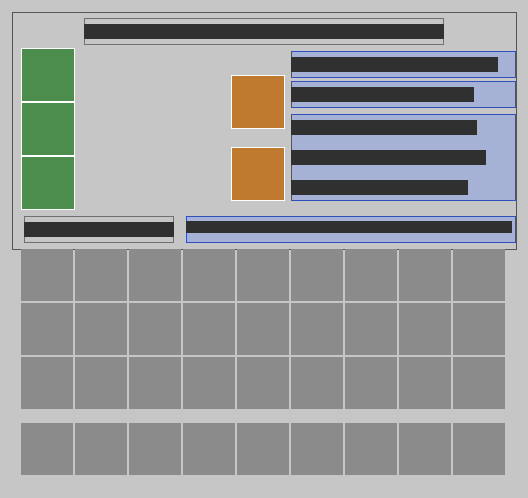
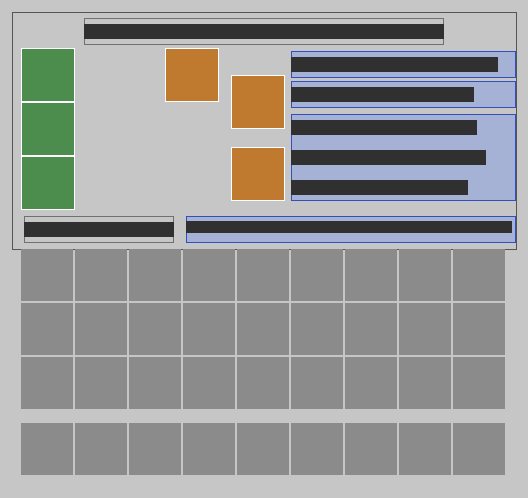
IMP4-01 [1-20]: placer platinum (O-004 prerequisite of [2-19]) - iron sand dug without silk touch drops a platinum grain about 3% of the time; block_drops test allows it; GameTest placer_platinum, CHEMISTRY F24, REFERENCES F12, TEST_QUEUE, tab order, IMPL4_LOG (147/147)

Changed region(s): [[0.303, 0.0904, 0.4242, 0.2108]]

diff --git a/src/gametest/java/com/taku3/semiconductorlab/gametest/MetallurgyTests.java b/src/gametest/java/com/taku3/semiconductorlab/gametest/MetallurgyTests.java
@@ -90,6 +90,25 @@ public class MetallurgyTests extends LabTestBase {
     @GameTest public void oreFluorite(GameTestHelper h)   { oreFeature(h, "fluorite_ore", Blocks.DEEPSLATE, Blocks.COBBLESTONE, Metallurgy.FLUORITE_ORE, LabTestBase::stoneOrDeepslate); }   // [1-21] IMP4-01
     @GameTest public void oreBauxite(GameTestHelper h)    { oreFeature(h, "bauxite_ore", Blocks.DIRT, Blocks.COBBLESTONE, Metallurgy.BAUXITE_ORE, st -> st.is(Blocks.DIRT) || st.is(Blocks.COARSE_DIRT) || st.is(Blocks.STONE)); }   // [1-24] IMP4-01
 
+    /** [1-20] 砂白金（IMP4-01）：砂鉄を掘るとまれに（約3%）白金の粒。シルクタッチでは出ない */
+    @GameTest
+    public void placerPlatinum(GameTestHelper h) {
+        ServerLevel lv = h.getLevel();
+        BlockPos at = h.absolutePos(p(1, 1, 1));
+        ItemStack shovel = new ItemStack(Items.IRON_SHOVEL);
+        ItemStack silk = new ItemStack(Items.IRON_SHOVEL);
+        silk.enchant(lv.registryAccess().lookupOrThrow(Registries.ENCHANTMENT).getOrThrow(net.minecraft.world.item.enchantment.Enchantments.SILK_TOUCH), 1);
+        int pt = 0, ptSilk = 0, n = 2000;
+        for (int i = 0; i < n; i++) {
+            pt += Block.getDrops(Metallurgy.IRON_SAND.defaultBlockState(), lv, at, null, null, shovel).stream().filter(st -> st.is(Metallurgy.PLATINUM_GRAIN)).mapToInt(ItemStack::getCount).sum();
+            ptSilk += Block.getDrops(Metallurgy.IRON_SAND.defaultBlockState(), lv, at, null, null, silk).stream().filter(st -> st.is(Metallurgy.PLATINUM_GRAIN)).mapToInt(ItemStack::getCount).sum();
+        }
+        h.assertTrue(pt > n * 0.01 && pt < n * 0.06, "about 3% platinum grains from iron sand, got " + pt + "/" + n);
+        h.assertValueEqual(ptSilk, 0, "silk touch keeps the sand block (no grain)");
+        LOG.info("[LAB] placer platinum [1-20]: {} grains in {} iron sand blocks (3%), none with silk touch", pt, n);
+        h.succeed();
+    }
+
     /** [1-29] ホール・エルー法（IMP4-01）：アルミナ2 → Al 1（15kWh）。浴（氷晶石）・陽極（黒鉛棒）・電気がないと止まる。陽極は2回、浴は16回 */
     @GameTest
     public void hallHeroult(GameTestHelper h) {
@@ -245,7 +264,7 @@ public class MetallurgyTests extends LabTestBase {
             net.minecraft.world.item.Item raw = (net.minecraft.world.item.Item) o[1];
             List<ItemStack> normal = Block.getDrops(b.defaultBlockState(), lv, at, null, null, pick);
             List<ItemStack> silky = Block.getDrops(b.defaultBlockState(), lv, at, null, null, silk);
-            h.assertTrue(!normal.isEmpty() && normal.stream().allMatch(s -> s.is(raw)), b + " with a pickaxe should drop " + raw + ", got " + normal);
+            h.assertTrue(!normal.isEmpty() && normal.stream().allMatch(s -> s.is(raw) || (b == Metallurgy.IRON_SAND && s.is(Metallurgy.PLATINUM_GRAIN))), b + " with a pickaxe should drop " + raw + ", got " + normal);   // 砂鉄はまれに砂白金も [1-20]
             h.assertTrue(silky.size() == 1 && silky.get(0).is(b.asItem()), b + " with silk touch should drop itself, got " + silky);
         }
         for (Block m : new Block[] {Power.STEAM_ENGINE.block, Power.STEAM_TURBINE.block, Power.LEAD_ACID_BATTERY.block, Power.WATER_WHEEL.block, Gas.ELECTROLYZER.block, Gas.GAS_HOLDER.block,

diff --git a/src/main/java/com/taku3/semiconductorlab/content/Metallurgy.java b/src/main/java/com/taku3/semiconductorlab/content/Metallurgy.java
@@ -51,6 +51,7 @@ public final class Metallurgy {
     public static final Item RED_MUD               = Reg.item("red_mud");
     public static final Item CRYOLITE              = Reg.item("cryolite");         // [1-38] 氷晶石 Na3AlF6（IMP4-01、合成。ホール・エルー法の電解浴）
     public static final Item ALUMINIUM_INGOT       = Reg.item("aluminium_ingot");  // [1-29] アルミニウム（IMP4-01、ホール・エルー法。c:ingots/aluminum）
+    public static final Item PLATINUM_GRAIN        = Reg.item("platinum_grain");   // [1-20] 砂白金（IMP4-01：砂鉄を掘るとまれに。自然白金の粒、Pd・Ir などを含む）
     public static final Item GRAPHITE              = Reg.item("graphite");
     public static final Item SPHALERITE            = Reg.item("sphalerite");
     public static final Item COAL_ASH              = Reg.item("coal_ash");

diff --git a/docs/TECH_TREE.md b/docs/TECH_TREE.md
@@ -177,7 +177,7 @@ graph LR
 ### [9-06] 酸化膜エッチング（HF）✅  遊び方: 軽 ／ **実装（2026-10 IMP4-01）**: エッチング槽 etch_tank（鉛×7、電気・燃料なし、室温）。酸化膜つきの板×8＋フッ酸1（空の鉛の瓶は上に戻る）→ シリコンの板×8（純度・ドーパントを受け継ぎ、膜は消える）。時間＝膜の厚さ÷20nm/秒（ゲームの値）。現像ずみの加工中ウェハー（process_wafer）1〜8枚 → レジストのない所に窓が開く（ChipOps.etchOxide、LITHO_DESIGN §5）。CHEMISTRY F11、REFERENCES F4 ／ テスト: etch_tank ／ ID: etch_tank ／ 元の記述→  年: 1957 ／ 前提: [2-10]フッ酸✅ ／ 本物: SiO2+6HF→H2SiF6+2H2O。Si 本体はほぼ溶かさず酸化膜だけ溶かす（選択性）。実務は NH4F で緩衝した BHF。1957 ラスロップとナル（米陸軍）が SiO2 に穴を開けた（ベル研の窓開けは1955年から。液が HF だったかは未確認⚠） ／ ゲーム: 第3章のウェハー状態機械の1工程（酸化→レジスト→露光→現像→**エッチング**）／ へえ: 酸化膜が溶けきると表面が水をはじく（撥水）ので、終わりが目で分かる
 
 ## 新たに必要な鉱石ノード（輸入品なしのため）
-### [1-20] 白金（砂白金）⛔→❓  年: 1748 ／ 前提: 砂鉄✅ ／ 本物: 漂砂鉱床に自然白金が微量（ウラル・コロンビア）。1748年 ウジョアの『Relación Histórica』がヨーロッパで最初の記述（ウッドは1741年頃に試料を調べ、英国の医師ブラウンリッグに報告していた）／ ゲーム: 砂鉄のドロップに低確率で白金粒 ／ 用途: 触媒[6-13][6-11]、電極、熱電対 ／ へえ①: 白金は川の砂の中に、金属のまま少しだけまじっている
+### [1-20] 白金（砂白金）✅  遊び方: 軽 ／ **実装（2026-10 IMP4-01、[2-19] 過酸化水素の白金陽極の前提）**: 砂鉄 iron_sand をシルクタッチ以外で掘ると約3%で砂白金 platinum_grain（ルートテーブルに1つ）。産地（コロンビア・ウラルの川）は近似（placeholder）。CHEMISTRY F24、REFERENCES F12 ／ テスト: placer_platinum, block_drops ／ ID: platinum_grain ／ 元の記述→  年: 1748 ／ 前提: 砂鉄✅ ／ 本物: 漂砂鉱床に自然白金が微量（ウラル・コロンビア）。1748年 ウジョアの『Relación Histórica』がヨーロッパで最初の記述（ウッドは1741年頃に試料を調べ、英国の医師ブラウンリッグに報告していた）／ ゲーム: 砂鉄のドロップに低確率で白金粒 ／ 用途: 触媒[6-13][6-11]、電極、熱電対 ／ へえ①: 白金は川の砂の中に、金属のまま少しだけまじっている
 ### [1-21] 蛍石 CaF2 ✅  遊び方: 軽 ／ **実装（2026-10 IMP4-01、[2-10] の前提）**: 新しい鉱石 fluorite_ore（方鉛鉱と同じ帯 Y −16〜64、石・深層岩、count 4・size 6＝方鉛鉱より少ない、石のツルハシ以上、シルクで鉱石ブロック）→ 蛍石 fluorite（c:raw_materials/fluorite）。鉱脈の形は省略（placeholder）。CHEMISTRY F5、REFERENCES F1 ／ テスト: ore_fluorite, ore_biome_rules ／ ID: fluorite, fluorite_ore ／ 元の記述→  本物: 熱水鉱脈（方鉛鉱・閃亜鉛鉱と共生）。1530年 アグリコラ『ベルマヌス（Bermannus）』で融剤「fluores」として初めて活字に／ ゲーム: 方鉛鉱と同じ帯 ／ 用途: フッ酸[2-10]（蛍石+硫酸）、氷晶石、エキシマレーザーの CaF2 窓[7-20] ／ 年: 1530（1529〜1530） ／ へえ①: 蛍石は、方鉛鉱や閃亜鉛鉱といっしょに鉱脈で見つかる
 ### [1-22] 錫石 SnO2 ✅  遊び方: 軽 ／ **実装（2026-10 IMP2-01、[1-30] の前提）**: 新しい鉱石「錫石の鉱石」cassiterite_ore（花崗岩だけを置き換える、y−10〜70、大きさ5・3回、鉄のツルハシ以上）→ 錫石 cassiterite。漂砂（川の砂）は省略。ID: cassiterite_ore, cassiterite。CHEMISTRY M3 ／ テスト: ore_cassiterite ／ 元の記述→  本物: 花崗岩系の熱水・漂砂（コーンウォール、マレーシア）。錫青銅の最初の証拠は紀元前3000年頃の近東・バルカン（どこで錫を掘ったかは未解明）／ ゲーム: 鉄マンガン重石と同じ花崗岩帯 ／ 用途: はんだ、EUV光源 ／ 年: -3000 ／ へえ①: スズの鉱石は、花こう岩の近くや川の砂から取れる
 ### [1-23] 輝水鉛鉱 MoS2 ⛔→❓  本物: 斑岩銅鉱床の副産物。1778年 シェーレが黒鉛でも鉛を含むものでもないと示し、新しい金属の酸化物（モリブデン酸）を得た ／ ゲーム: 銅鉱石の近く ／ 用途: EUV多層膜ミラー ／ 年: 1778 ／ へえ①: モリブデンの鉱石は、銅の鉱山のついでに取れる

diff --git a/docs/REFERENCES.md b/docs/REFERENCES.md
@@ -364,6 +364,20 @@
 
 ---
 
+## F12. 川の砂の中の白い金属（砂白金）［1-20］（［2-19］過酸化水素の白金電極の前提）
+**答え**：白金は重く、さびないので、岩がこわれても金属のまま残り、砂鉄や砂金といっしょに川底や浜にたまる（漂砂鉱床）。コロンビアやウラルの川砂から取れた。1748年のウジョアの旅行記がヨーロッパで最初の記述。
+
+- へえ①：白金は川の砂の中に、金属のまま少しだけまじっている。
+- へえ②：コロンビアの金掘りは、溶けにくい白い粒を「platina（小さな銀）」と呼んで捨てていた。
+- へえ③：自然白金にはパラジウム・イリジウム・オスミウムなどの仲間がまざっている（あとで分けられた）。
+- へえ④：白金は酸素が出る電気分解の電極にも負けないので、過酸化水素や過硫酸の電解に欠かせなかった。
+
+確かさ：漂砂鉱床・コロンビアとウラル ◎（USGS・ブリタニカ）／ウジョア 1748 ◎／platina の由来 ◎
+ゲーム（2026-10-20 IMP4-01 で実装）：砂鉄を掘るとまれに（約3%）砂白金 ⚠ 産地は近似
+根拠：ブリタニカ「platinum」https://www.britannica.com/science/platinum 、USGS「Platinum-Group Metals Statistics and Information」https://www.usgs.gov/centers/national-minerals-information-center/platinum-group-metals-statistics-and-information （英語）
+
+---
+
 # 電気（v0.2a）
 
 ---

diff --git a/docs/TEST_QUEUE.md b/docs/TEST_QUEUE.md
@@ -298,6 +298,10 @@
 - [x] 自動✅ 100kW×540秒＝15kWh、浴（氷晶石）なし・電力半分では進まない、アルミナ8 → アルミ4、陽極2本で4回、浴は16回、陽極がないと止まる、c:ingots/aluminum、アルミナはかまどで焼けない `(hall_heroult)`
 - [ ] 人間：電解槽の GUI（左にアルミナ・氷晶石・黒鉛棒、オレンジのバー、浴の残り・電力・状態、下に反応式）。蒸気タービン1台（500kW）で動くか。点灯の見た目
 
+## [1-20] 砂白金（IMP4-01）
+- [x] 自動✅ 砂鉄2000回で 1〜6%（約3%）の砂白金、シルクタッチでは出ない `(placer_platinum)`、砂鉄のふつうのドロップは磁鉄鉱（＋まれに砂白金）`(block_drops)`
+- [ ] 人間：浜の砂鉄を掘ったときにたまに出るか
+
 ## [2-23] 木材乾留（IMP2-01）
 - [x] 自動✅ 燃料なしでは動かない、石炭1で原木8 → 木炭8・木酢液4・木タール2、ネザーの幹は不可、木タール →かまど→ ピッチ `(wood_retort)`
 - [ ] 人間：乾留炉の GUI（左に原木・燃料、火の縦バー、茶色のバー、右に木炭・木酢液・木タール）、状態の文字があふれないか。燃えている間に前面が光るか

diff --git a/docs/IMPL4_LOG.md b/docs/IMPL4_LOG.md
@@ -29,3 +29,4 @@ CHEMISTRY の行番号は F1〜（docs/chemistry/<幹>.md）。REFERENCES は第
 ## O-004（2026-10-20）[9-14] 洗浄の前提の薬品
 - 調べた結果：[2-19] 過酸化水素の電解法（1908 ヴァイセンシュタイン）は、硫酸を白金の陽極で電解して過硫酸にする（高い電流密度で O2 より先に S2O8 ができるのは白金だけ）。白金 [1-20][1-18] が未実装なので、前提から作る：[1-20] 砂白金 → [1-18] 王水で精製（塩酸✅・硝酸✅ IMP2・塩化アンモニウム＝[2-21]＋塩酸）→ [2-19]。TECH_TREE の [2-19] の前提に白金を足す
 - ✅ [2-21] アンモニア水：アンモニア蒸留器 ammonia_still（block/AmmoniaStillBlockEntity、画面 AmmoniaStillScreen、1kW）。安水4＋消石灰＋瓶 → アンモニア水（ガラス瓶）、水バケツ1杯で4回。GameTest ammonia_still、CHEMISTRY F23、REFERENCES F11、遊び方: 軽
+- ✅ [1-20] 砂白金：砂鉄のルートテーブルに約3%の砂白金（シルクタッチなし）。block_drops テストは砂鉄だけ砂白金も許す形に。GameTest placer_platinum、CHEMISTRY F24、REFERENCES F12、遊び方: 軽

diff --git a/docs/CHEMISTRY.md b/docs/CHEMISTRY.md
@@ -325,6 +325,11 @@
 |---|---|---|---|
 | F16 | アルミナ2 ＋（氷晶石1で16回・黒鉛棒1で2回）→（電解槽 100kW×540秒＝15kWh）→ アルミニウム1 | 約960℃の溶けた氷晶石にアルミナを溶かし直流で電解：2Al2O3 + 3C → 4Al + 3CO2。陽極の炭素は約0.4〜0.5kg/kg-Al 減る。13〜15kWh/kg | ✅ 反応・浴・陽極の消耗・電力量は本物。⚠ 量は記号的（アルミナ約1.9kg で Al 1kg）、CO2・フッ化物の排ガス・電流電圧は省略、1ブロック＝ポットライン（hall_heroult_cell.placeholder） |
 
+## [1-20] 砂白金（IMP4-01、番号は F24）
+| # | レシピ・挙動 | 本物 | 判定 |
+|---|---|---|---|
+| F24 | 砂鉄を掘る（シルクタッチなし）→ 約3%で砂白金 | 自然白金（Pt＋Pd・Ir・Fe など）は重くさびないので、砂鉄・砂金と漂砂鉱床にたまる（コロンビア・ウラル） | ⚠ 近似：浜の砂鉄から出る・確率はゲームの値（platinum_grain.placeholder） |
+
 ## [2-03] 天然ソーダ（タスク08）
 | # | レシピ・挙動 | 本物 | 判定 |
 |---|---|---|---|

diff --git a/docs/chemistry/1_metallurgy.md b/docs/chemistry/1_metallurgy.md
@@ -125,3 +125,8 @@
 | # | レシピ・挙動 | 本物 | 判定 |
 |---|---|---|---|
 | F16 | アルミナ2 ＋（氷晶石1で16回・黒鉛棒1で2回）→（電解槽 100kW×540秒＝15kWh）→ アルミニウム1 | 約960℃の溶けた氷晶石にアルミナを溶かし直流で電解：2Al2O3 + 3C → 4Al + 3CO2。陽極の炭素は約0.4〜0.5kg/kg-Al 減る。13〜15kWh/kg | ✅ 反応・浴・陽極の消耗・電力量は本物。⚠ 量は記号的（アルミナ約1.9kg で Al 1kg）、CO2・フッ化物の排ガス・電流電圧は省略、1ブロック＝ポットライン（hall_heroult_cell.placeholder） |
+
+## [1-20] 砂白金（IMP4-01、番号は F24）
+| # | レシピ・挙動 | 本物 | 判定 |
+|---|---|---|---|
+| F24 | 砂鉄を掘る（シルクタッチなし）→ 約3%で砂白金 | 自然白金（Pt＋Pd・Ir・Fe など）は重くさびないので、砂鉄・砂金と漂砂鉱床にたまる（コロンビア・ウラル） | ⚠ 近似：浜の砂鉄から出る・確率はゲームの値（platinum_grain.placeholder） |

diff --git a/docs/test_queue/1_metallurgy.md b/docs/test_queue/1_metallurgy.md
@@ -89,3 +89,7 @@
 ## [1-29] アルミニウム（IMP4-01）
 - [x] 自動✅ 100kW×540秒＝15kWh、浴（氷晶石）なし・電力半分では進まない、アルミナ8 → アルミ4、陽極2本で4回、浴は16回、陽極がないと止まる、c:ingots/aluminum、アルミナはかまどで焼けない `(hall_heroult)`
 - [ ] 人間：電解槽の GUI（左にアルミナ・氷晶石・黒鉛棒、オレンジのバー、浴の残り・電力・状態、下に反応式）。蒸気タービン1台（500kW）で動くか。点灯の見た目
+
+## [1-20] 砂白金（IMP4-01）
+- [x] 自動✅ 砂鉄2000回で 1〜6%（約3%）の砂白金、シルクタッチでは出ない `(placer_platinum)`、砂鉄のふつうのドロップは磁鉄鉱（＋まれに砂白金）`(block_drops)`
+- [ ] 人間：浜の砂鉄を掘ったときにたまに出るか
